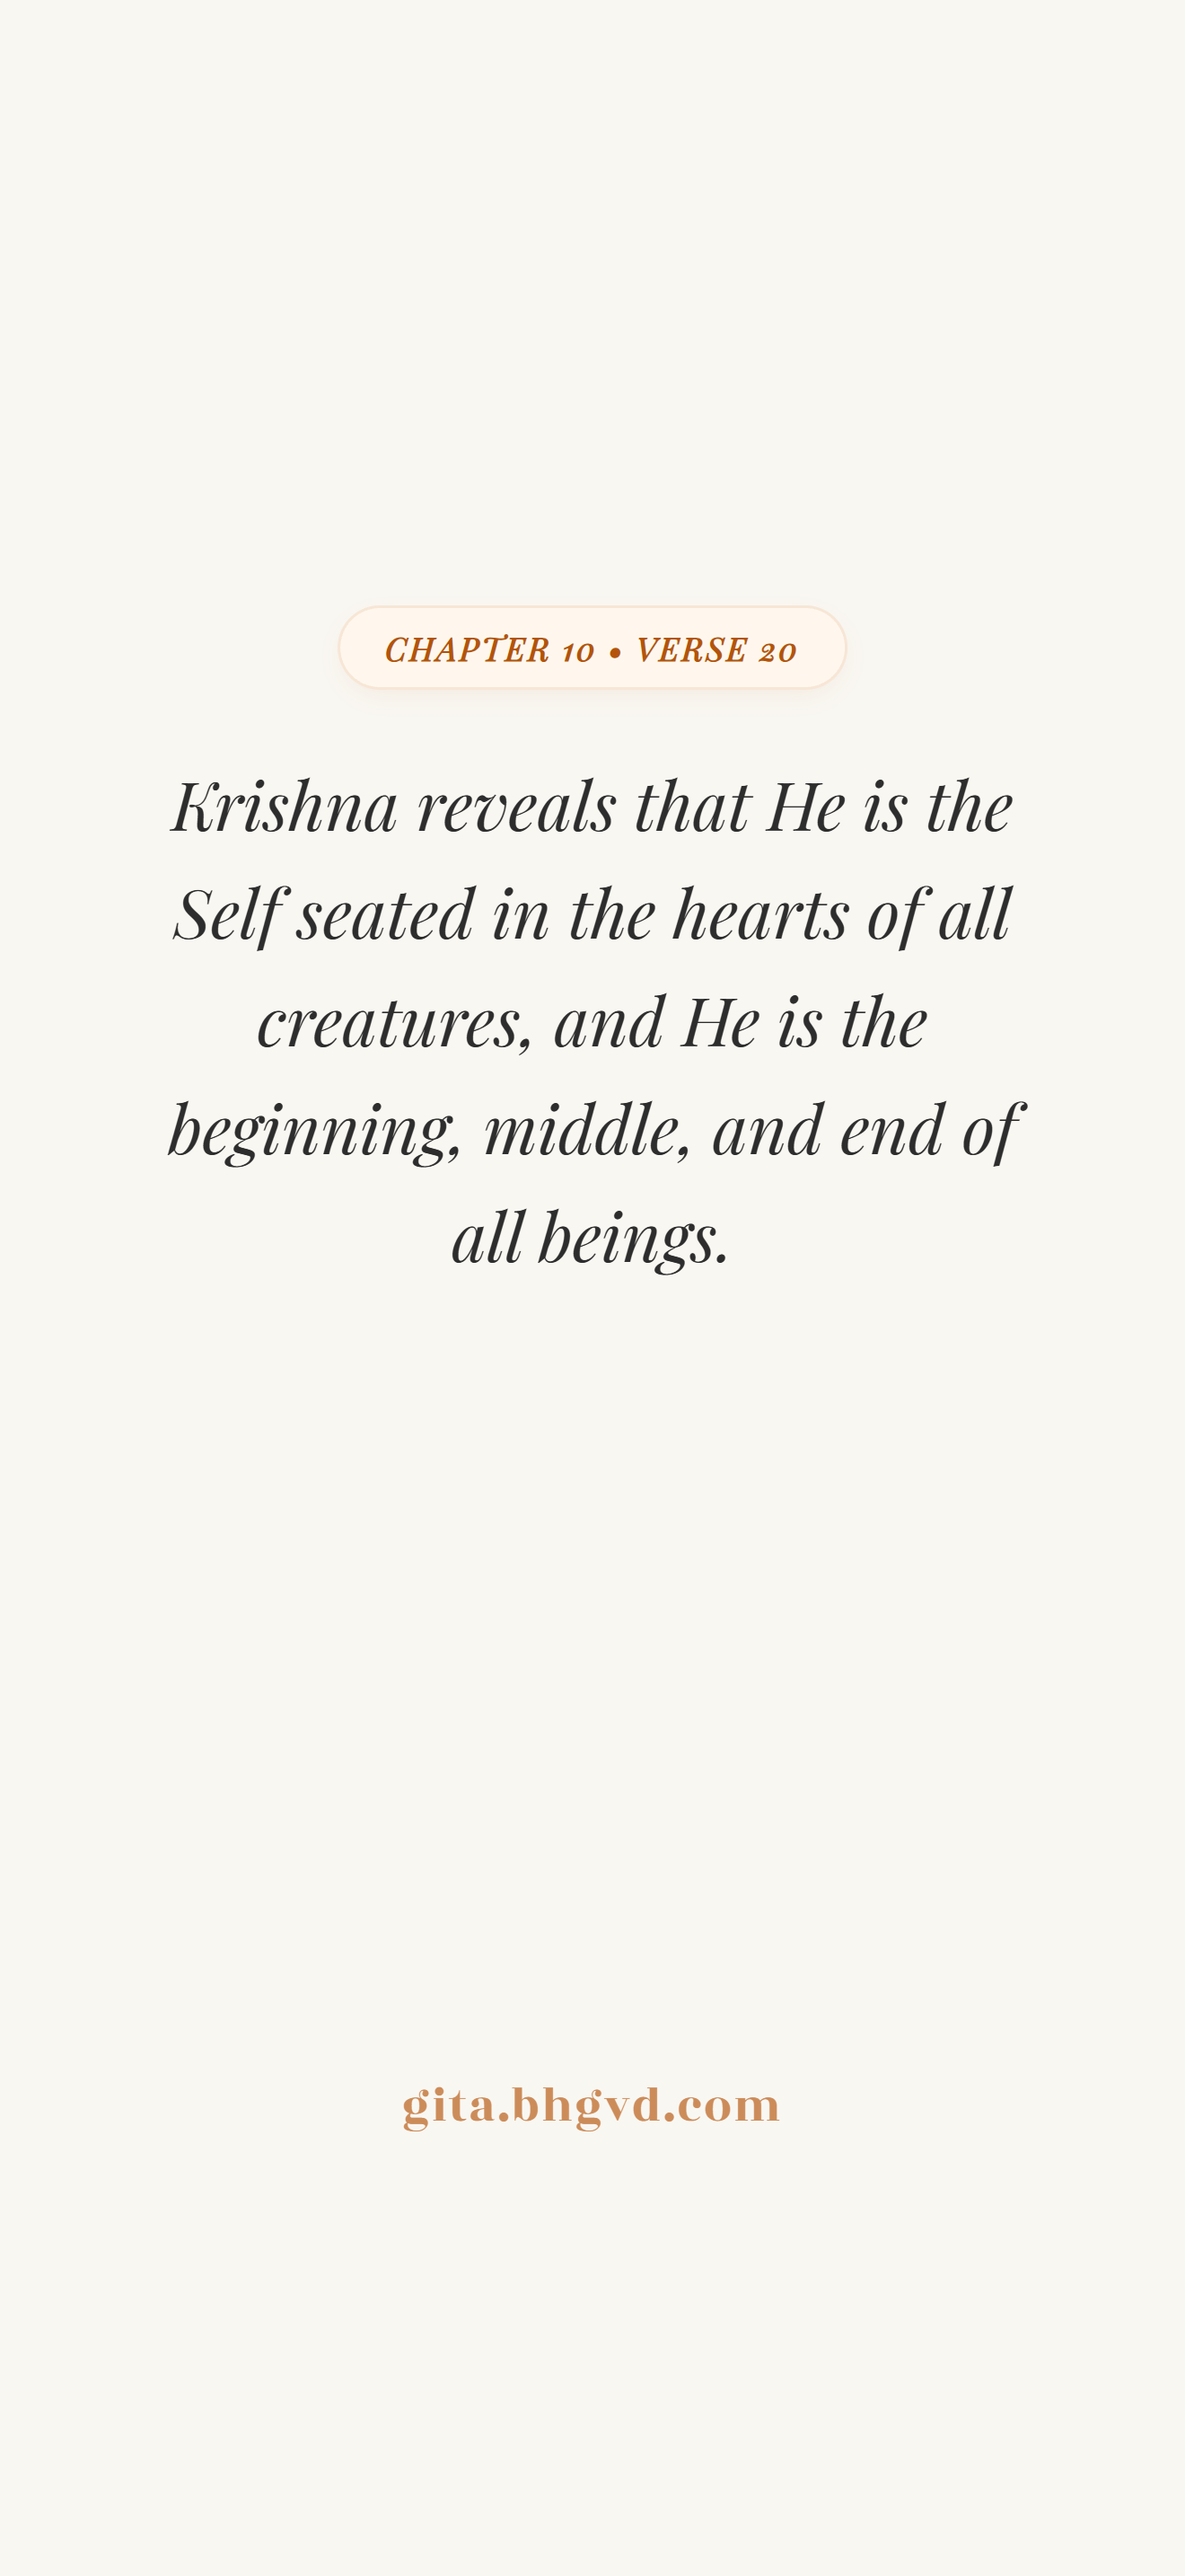
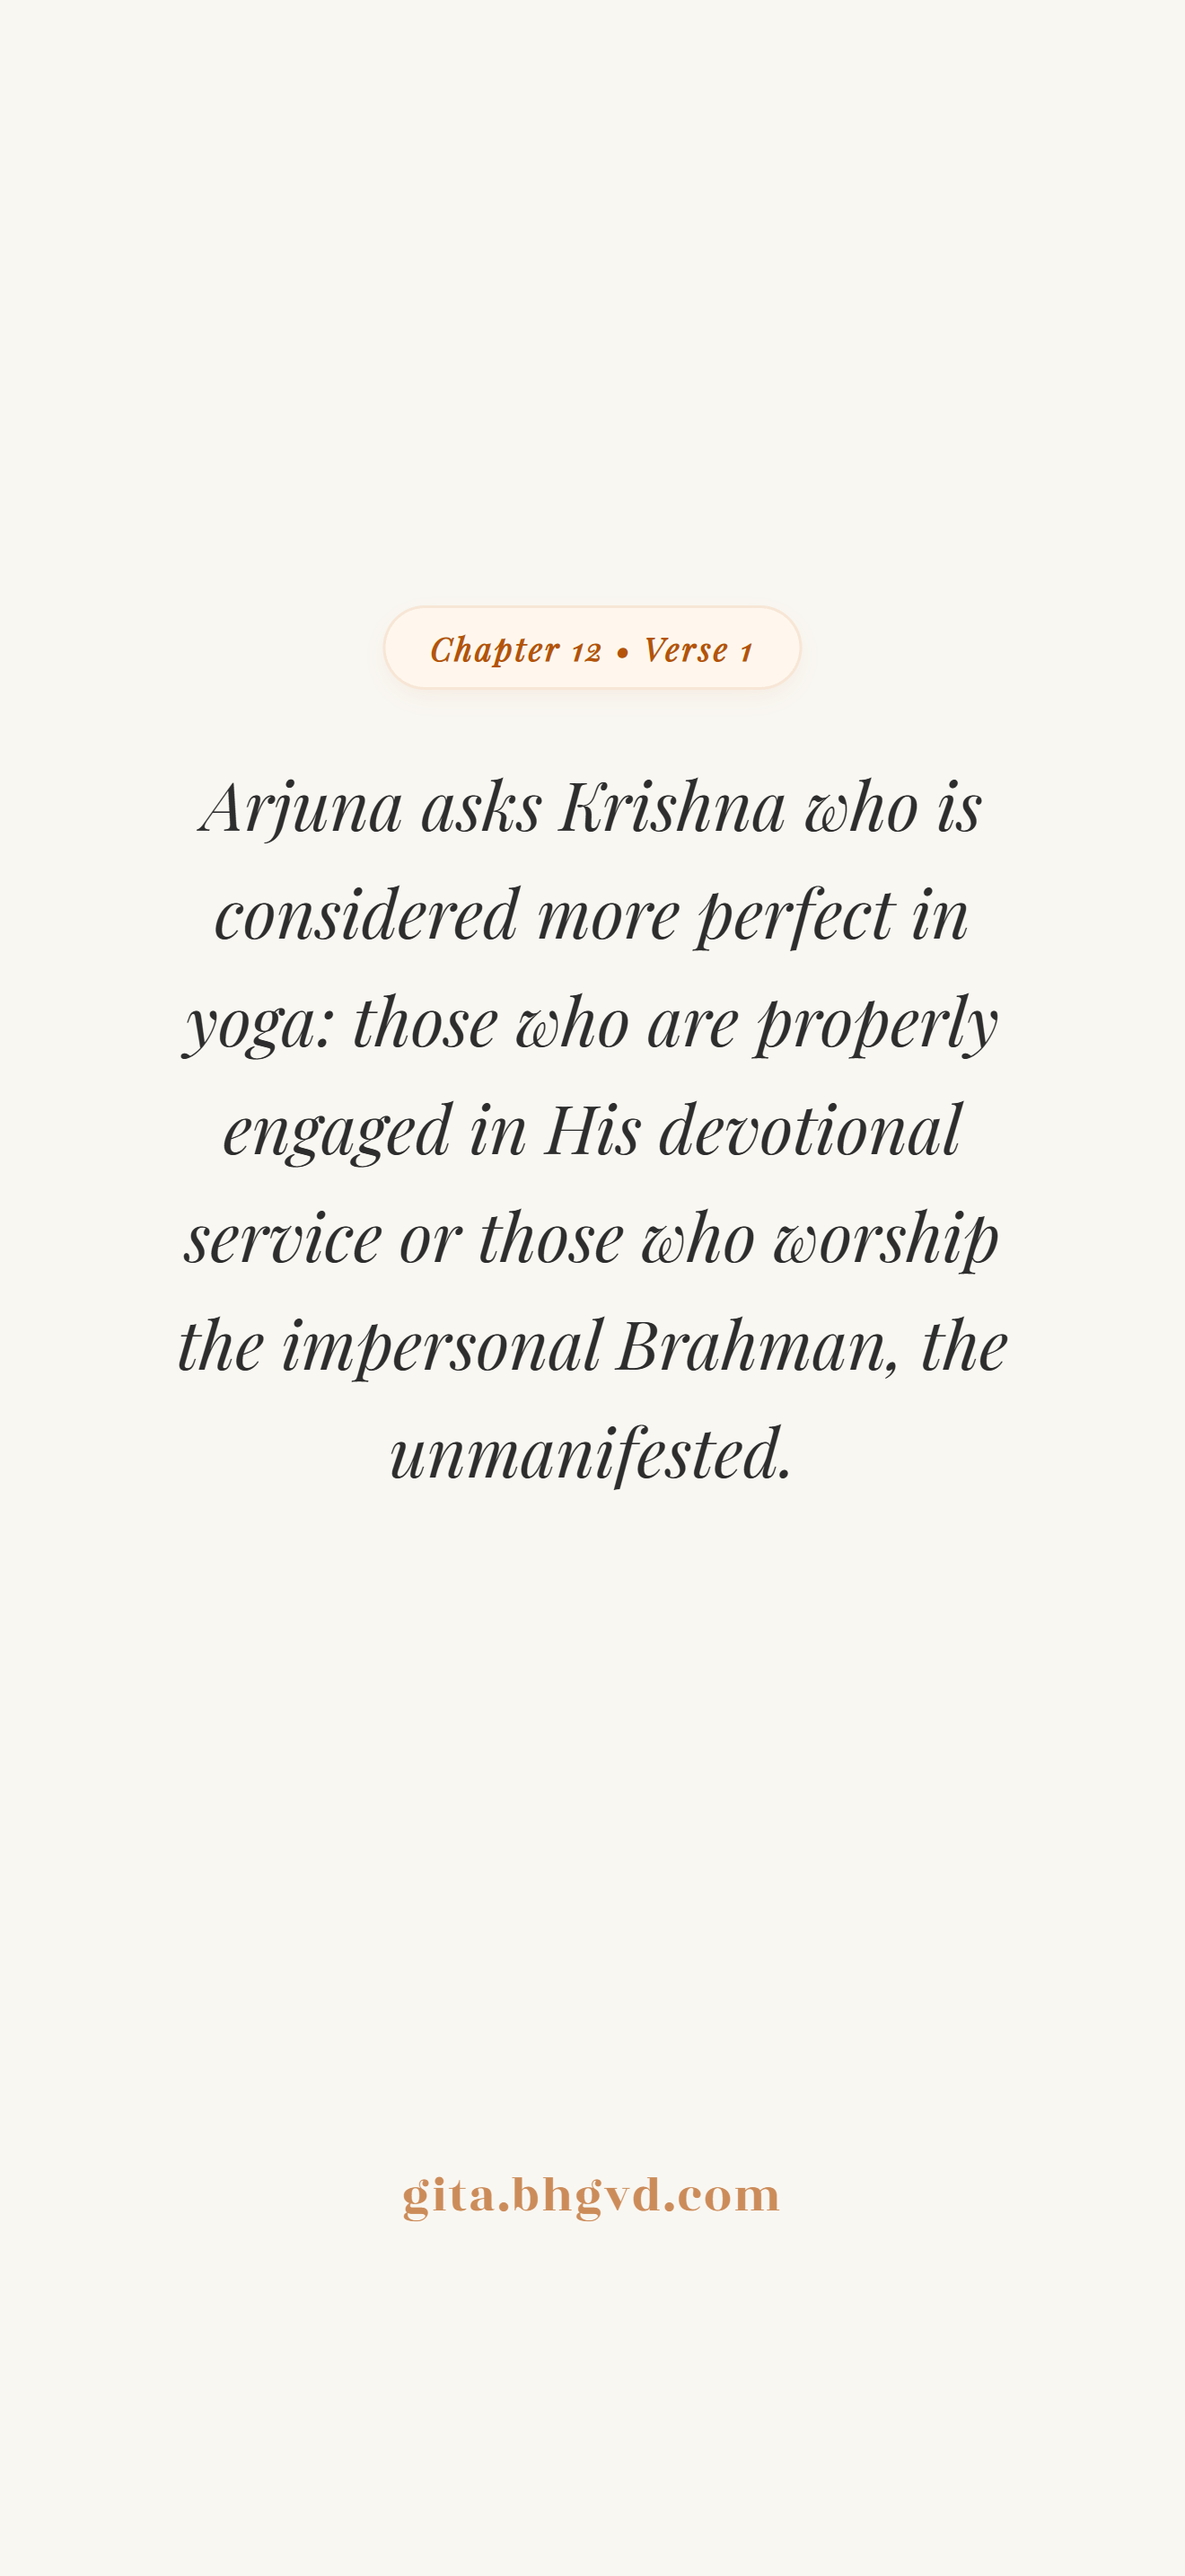
upd

Changed region(s): [[0.1553, 0.2483, 0.8697, 0.5275], [0.3417, 0.8068, 0.6523, 0.8689], [0.3417, 0.5586, 0.6523, 0.5896]]

diff --git a/update-wallpaper.js b/update-wallpaper.js
@@ -1,0 +1,150 @@
+const puppeteer = require('puppeteer');
+const fs = require('fs');
+
+// Load your data
+const gitaData = require('./gita.json');
+
+// Config for languages
+const languages = [
+    { code: 'en', key: 'English', fallback: 'translationEnglish', simple: 'simpleEnglish' },
+    { code: 'hi', key: 'Hindi', fallback: 'translationHindi', simple: 'simpleHindi' },
+    { code: 'gu', key: 'Gujarati', fallback: 'translationGujarati', simple: 'simpleGujarati' }
+];
+
+async function generateWallpapers() {
+    // 1. Pick a Random Verse (Same verse for all languages)
+    const verseIndex = Math.floor(Math.random() * gitaData.length);
+    const verse = gitaData[verseIndex];
+    console.log(`Selected Chapter ${verse.chapter}, Verse ${verse.verse}`);
+
+    // 2. Launch Browser
+    const browser = await puppeteer.launch();
+    
+    // 3. Loop through languages
+    for (const lang of languages) {
+        const page = await browser.newPage();
+        
+        // Set Size to iPhone 16 Pro Max (1320 x 2868)
+        await page.setViewport({ width: 1320, height: 2868, deviceScaleFactor: 1 });
+
+        // Determine text content
+        const textContent = verse[lang.simple] || verse[lang.fallback];
+
+        // HTML Template
+        const htmlContent = `
+            <!DOCTYPE html>
+            <html lang="${lang.code}">
+            <head>
+            <style>
+                @font-face { font-family: 'Playfair Display'; src: url('https://xn--gt-ela0o.bhgvd.com/fonts/PlayfairDisplay-Regular.ttf'); font-weight: 400; }
+                @font-face { font-family: 'Playfair Display'; src: url('https://xn--gt-ela0o.bhgvd.com/fonts/PlayfairDisplay-Italic.ttf'); font-style: italic; }
+                @font-face { font-family: 'Playfair Display'; src: url('https://xn--gt-ela0o.bhgvd.com/fonts/PlayfairDisplay-SemiBold.ttf'); font-weight: 600; }
+                @font-face { font-family: 'Rozha One'; src: url('https://xn--gt-ela0o.bhgvd.com/fonts/RozhaOne-Regular.ttf'); }
+                
+                body {
+                    background-color: #F9F7F2;
+                    margin: 0;
+                    height: 100vh;
+                    width: 100vw;
+                    display: flex;
+                    flex-direction: column;
+                    align-items: center;
+                    justify-content: center;
+                    overflow: hidden;
+                    position: relative;
+                }
+
+                /* Fixed Box for Translation */
+                .text-box {
+                    position: relative; 
+                    width: 1000px;
+                    height: 1400px;
+                    display: flex;
+                    flex-direction: column; /* Stack children vertically */
+                    align-items: center;    /* Center children horizontally */
+                    justify-content: flex-start; /* Align content to the TOP */
+                    padding-top: 100px; /* Push text down so it sits just below the pill */
+                    box-sizing: border-box; /* Includes padding in height calculation */
+                }
+
+                /* Verse Pill - Sitting on top edge of the box */
+                #verse-reference {
+                    position: absolute;
+                    top: -60px; 
+                    left: 50%;
+                    transform: translateX(-50%);
+                    
+                    background-color: #FFF7ED;
+                    color: #B45309;
+                    font-family: 'Playfair Display', serif;
+                    padding: 20px 50px;
+                    border-radius: 100px;
+                    font-size: 36px;
+                    font-weight: 700;
+                    font-style: italic;
+                    border: 3px solid rgba(180, 83, 9, 0.1);
+                    letter-spacing: 3px;
+                    z-index: 10;
+                    white-space: nowrap;
+                    box-shadow: 0 10px 30px -10px rgba(180, 83, 9, 0.1);
+                }
+
+                /* Translation Text */
+                #translation-text {
+                    font-family: 'Playfair Display', serif;
+                    color: #2D2D2D;
+                    font-size: 75px; 
+                    line-height: 1.6;
+                    font-style: italic;
+                    text-align: center;
+                    padding: 0 20px;
+                    
+                    /* Safety for very long texts */
+                    max-height: 100%; 
+                    overflow: hidden;
+                    display: -webkit-box;
+                    -webkit-line-clamp: 11; /* Increased slightly as we have more vertical space now */
+                    -webkit-box-orient: vertical;
+                }
+
+                /* Footer Link */
+                .wallpaper-footer {
+                    position: absolute;
+                    bottom: -350px; /* Positioned just below the box */
+                    left: 0;
+                    right: 0;
+                    text-align: center;
+                    
+                    font-family: 'Rozha One', serif;
+                    font-size: 55px;
+                    color: #B45309;
+                    opacity: 0.65;
+                    letter-spacing: 2px;
+                }
+            </style>
+            </head>
+            <body>
+                <div class="text-box">
+                    <div id="verse-reference">Chapter ${verse.chapter} • Verse ${verse.verse}</div>
+                    <div id="translation-text">${textContent}</div>
+                    
+                    <div class="wallpaper-footer">gita.bhgvd.com</div>
+                </div>
+            </body>
+            </html>
+        `;
+
+        await page.setContent(htmlContent);
+        await page.evaluateHandle('document.fonts.ready');
+
+        const fileName = `wallpaper-${lang.code}.png`;
+        await page.screenshot({ path: fileName });
+        console.log(`Generated ${fileName}`);
+        
+        await page.close();
+    }
+
+    await browser.close();
+}
+
+generateWallpapers();
